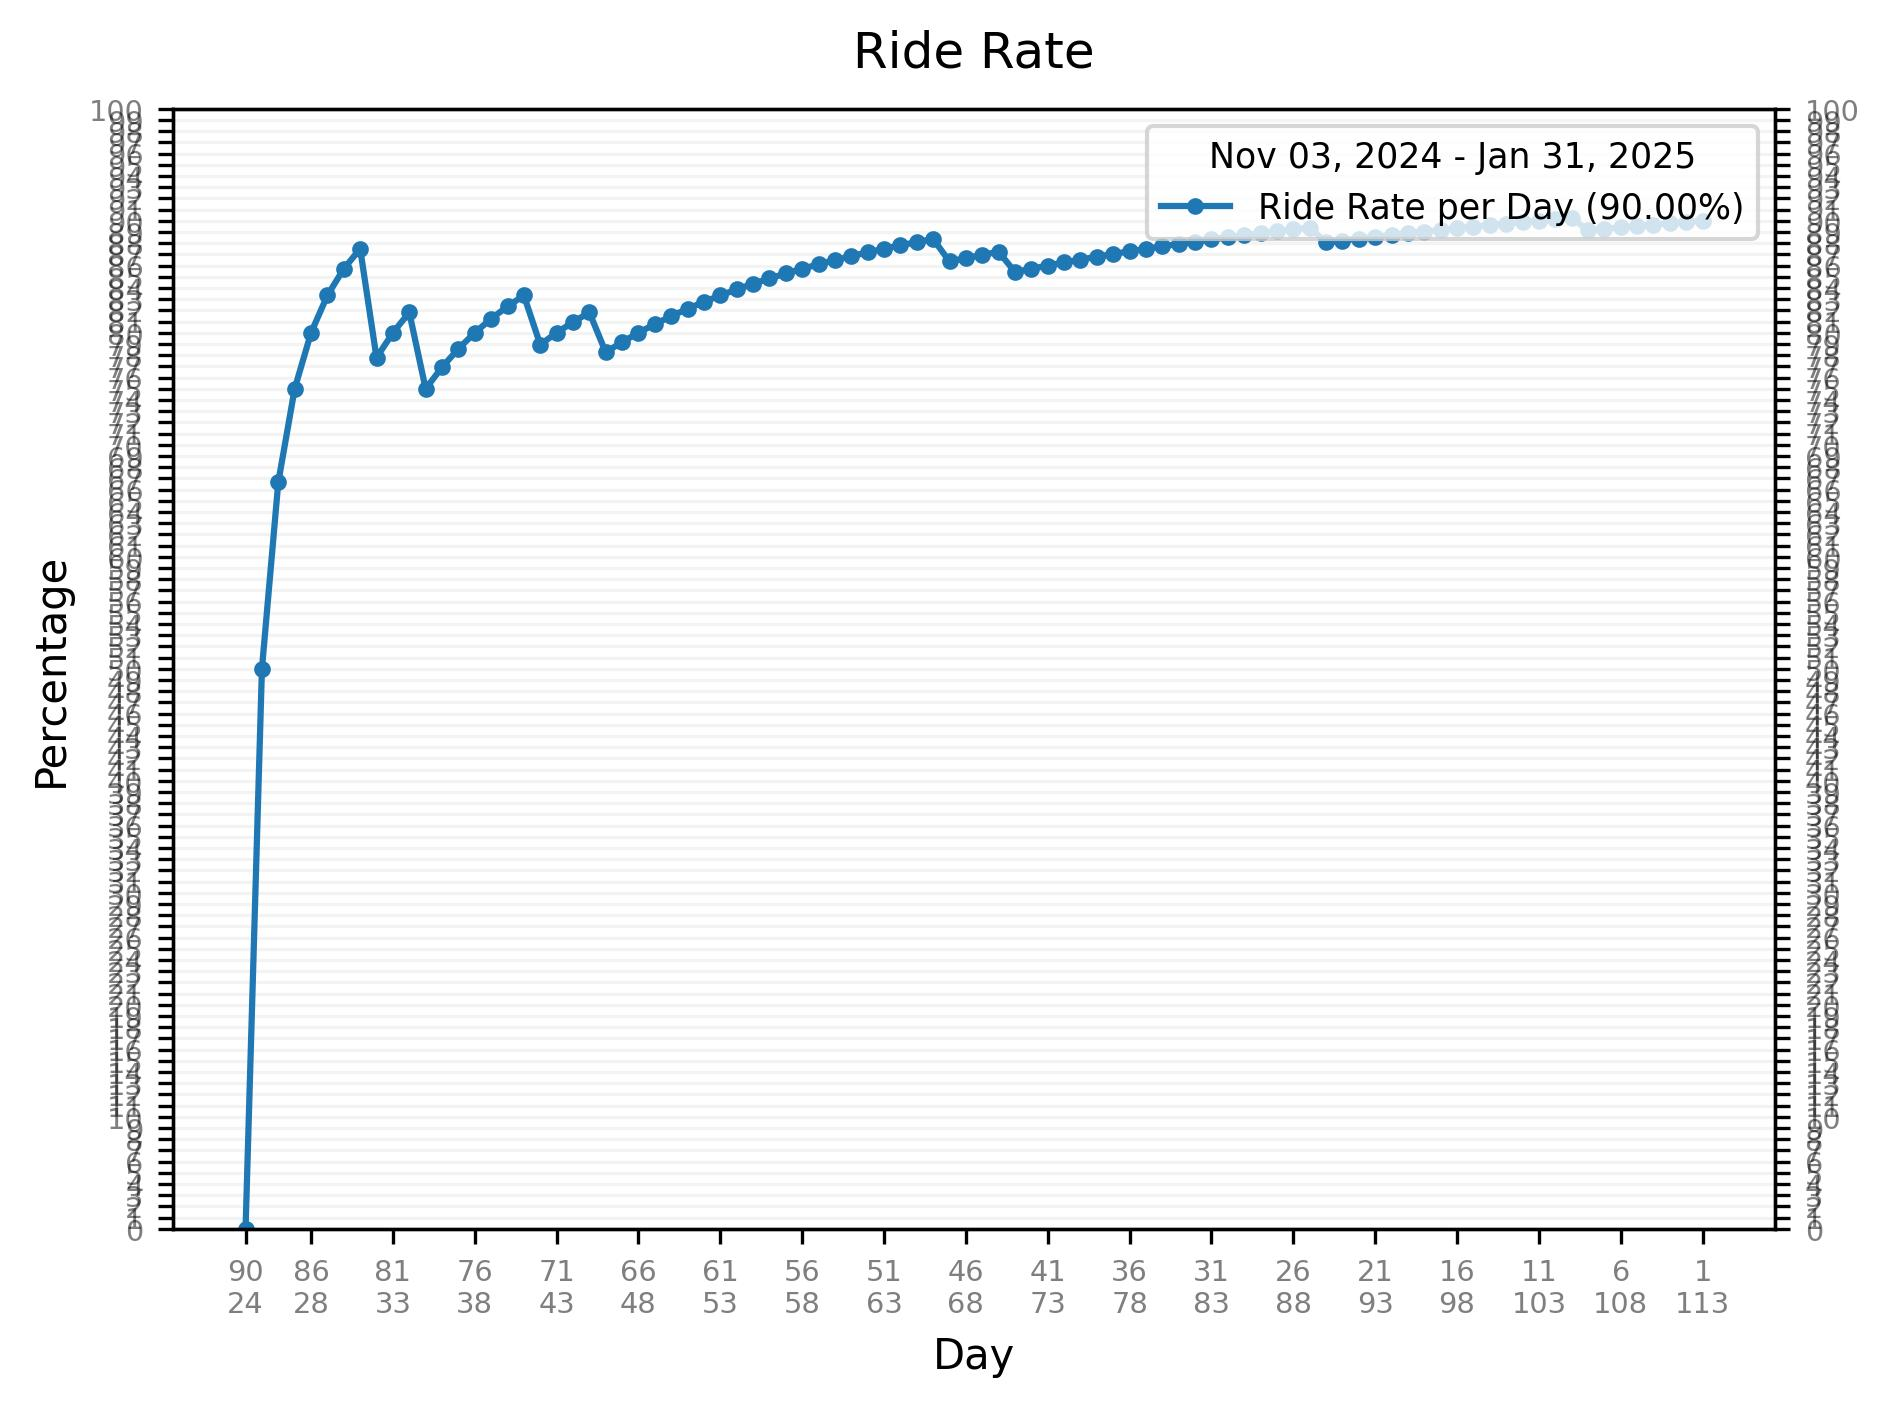
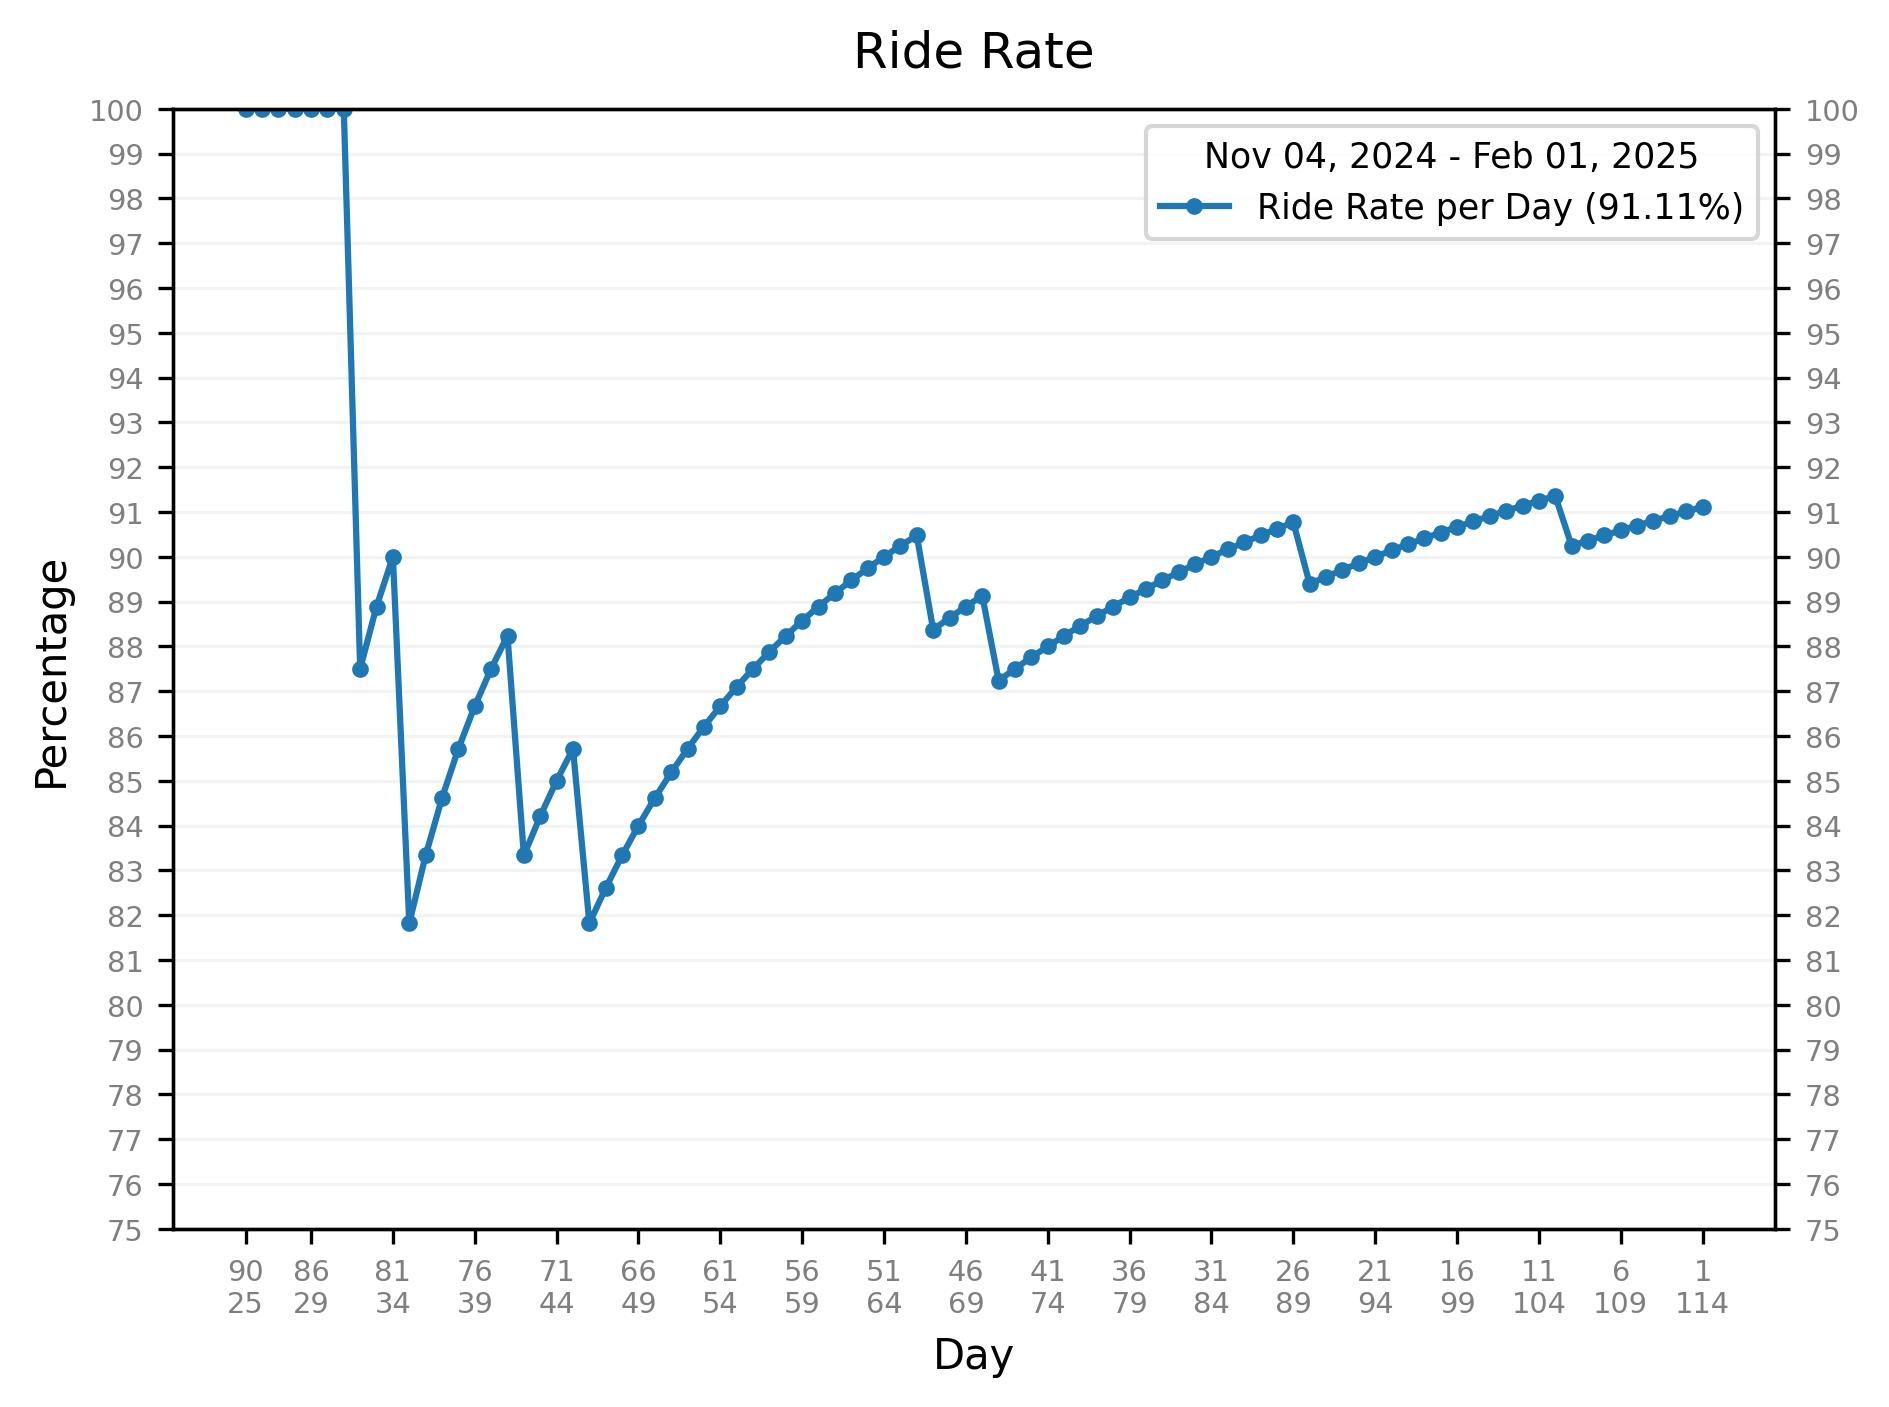
publish updates

diff --git a/docs/summary/daily/last30.html b/docs/summary/daily/last30.html
@@ -1,22 +1,22 @@
 <pre>
 Period: Last 30 Days
 <br>
-Date range: 2025-01-02 to 2025-01-31
+Date range: 2025-01-03 to 2025-02-01
 <br>
 <br>
 days  total  biked  tracked  skipped  ride rate
       -----  -----  -------  -------  ---------
-         30     28     27        2     93.33%
+         30     28     28        2     93.33%
 <br>
 <br>
 distance (miles)  min   max   avg   total
                   ----  ----  ----  -------
-                   7.5  27.4  16.8    469.6
+                   7.5  27.4  16.8    470.9
 <br>
 <br>
 speed (mph)  min   max   avg
              ----  ----  ----
-              8.4  13.7  11.5
+              8.4  13.7  11.4
 <br>
 top speed (mph)  min   max   avg
                  ----  ----  ----
@@ -25,9 +25,9 @@ top speed (mph)  min   max   avg
 <br>
 elevation gain (ft)  min   max   avg   total    total miles
                      ----  ----  ----  -------  -----------
-                      287  2212  1100    29714          5.6
+                      287  2212  1134    31753          6.0
 <br>
 elevation range (ft)  low:  min   max   avg   high:  min   max   avg
                             ----  ----  ----         ----  ----  ----
-                             17   329   172           404  1602   735
+                             17   329   178           404  1602   745
 </pre>

diff --git a/docs/summary/daily/last90.html b/docs/summary/daily/last90.html
@@ -1,22 +1,22 @@
 <pre>
 Period: Last 90 Days
 <br>
-Date range: 2024-11-03 to 2025-01-31
+Date range: 2024-11-04 to 2025-02-01
 <br>
 <br>
 days  total  biked  tracked  skipped  ride rate
       -----  -----  -------  -------  ---------
-         90     81     73        9     90.00%
+         90     82     74        8     91.11%
 <br>
 <br>
 distance (miles)  min   max   avg   total
                   ----  ----  ----  -------
-                   7.1  31.4  16.4   1332.0
+                   7.1  31.4  16.4   1345.1
 <br>
 <br>
 speed (mph)  min   max   avg
              ----  ----  ----
-              8.4  14.5  11.4
+              8.4  14.5  11.3
 <br>
 top speed (mph)  min   max   avg
                  ----  ----  ----
@@ -25,9 +25,9 @@ top speed (mph)  min   max   avg
 <br>
 elevation gain (ft)  min   max   avg   total    total miles
                      ----  ----  ----  -------  -----------
-                      287  2212   882    64455         12.2
+                      287  2212   898    66495         12.6
 <br>
 elevation range (ft)  low:  min   max   avg   high:  min   max   avg
                             ----  ----  ----         ----  ----  ----
-                             17   329   153           390  1602   616
+                             17   329   155           390  1602   621
 </pre>

diff --git a/docs/summary/daily/all.html b/docs/summary/daily/all.html
@@ -1,22 +1,22 @@
 <pre>
 Period: All Time
 <br>
-Date range: 2024-10-11 to 2025-01-31
+Date range: 2024-10-11 to 2025-02-01
 <br>
 <br>
 days  total  biked  tracked  skipped  ride rate
       -----  -----  -------  -------  ---------
-        113    103     73       10     91.15%
+        114    104     74       10     91.23%
 <br>
 <br>
 distance (miles)  min   max   avg   total
                   ----  ----  ----  -------
-                   6.9  31.4  15.4   1583.9
+                   6.9  31.4  15.4   1597.0
 <br>
 <br>
 speed (mph)  min   max   avg
              ----  ----  ----
-              8.4  14.5  11.4
+              8.4  14.5  11.3
 <br>
 top speed (mph)  min   max   avg
                  ----  ----  ----
@@ -25,9 +25,9 @@ top speed (mph)  min   max   avg
 <br>
 elevation gain (ft)  min   max   avg   total    total miles
                      ----  ----  ----  -------  -----------
-                      287  2212   882    64455         12.2
+                      287  2212   898    66495         12.6
 <br>
 elevation range (ft)  low:  min   max   avg   high:  min   max   avg
                             ----  ----  ----         ----  ----  ----
-                             17   329   153           390  1602   616
+                             17   329   155           390  1602   621
 </pre>

diff --git a/docs/summary/daily/last60.html b/docs/summary/daily/last60.html
@@ -1,7 +1,7 @@
 <pre>
 Period: Last 60 Days
 <br>
-Date range: 2024-12-03 to 2025-01-31
+Date range: 2024-12-04 to 2025-02-01
 <br>
 <br>
 days  total  biked  tracked  skipped  ride rate
@@ -11,7 +11,7 @@ days  total  biked  tracked  skipped  ride rate
 <br>
 distance (miles)  min   max   avg   total
                   ----  ----  ----  -------
-                   7.5  31.4  17.2    960.5
+                   7.5  31.4  17.0    949.6
 <br>
 <br>
 speed (mph)  min   max   avg
@@ -25,9 +25,9 @@ top speed (mph)  min   max   avg
 <br>
 elevation gain (ft)  min   max   avg   total    total miles
                      ----  ----  ----  -------  -----------
-                      287  2212   954    52482          9.9
+                      287  2212   979    53862         10.2
 <br>
 elevation range (ft)  low:  min   max   avg   high:  min   max   avg
                             ----  ----  ----         ----  ----  ----
-                             17   329   158           404  1602   646
+                             17   329   164           404  1602   656
 </pre>
